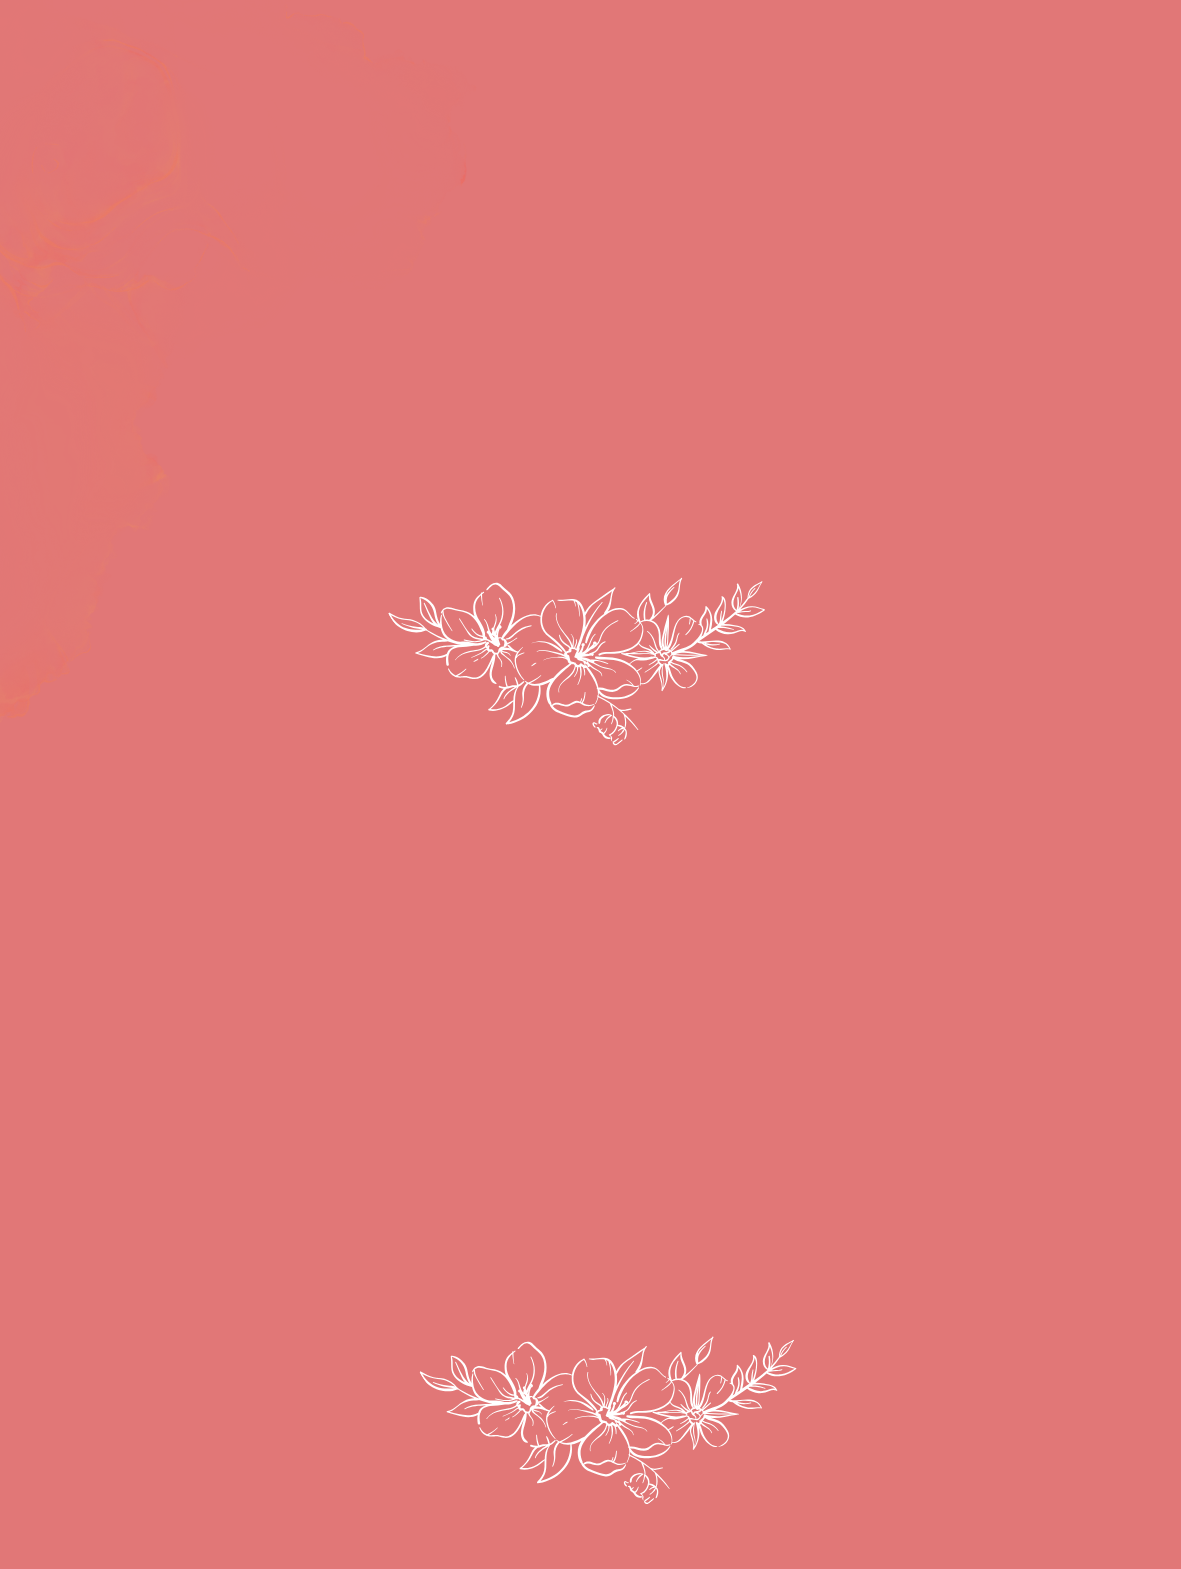
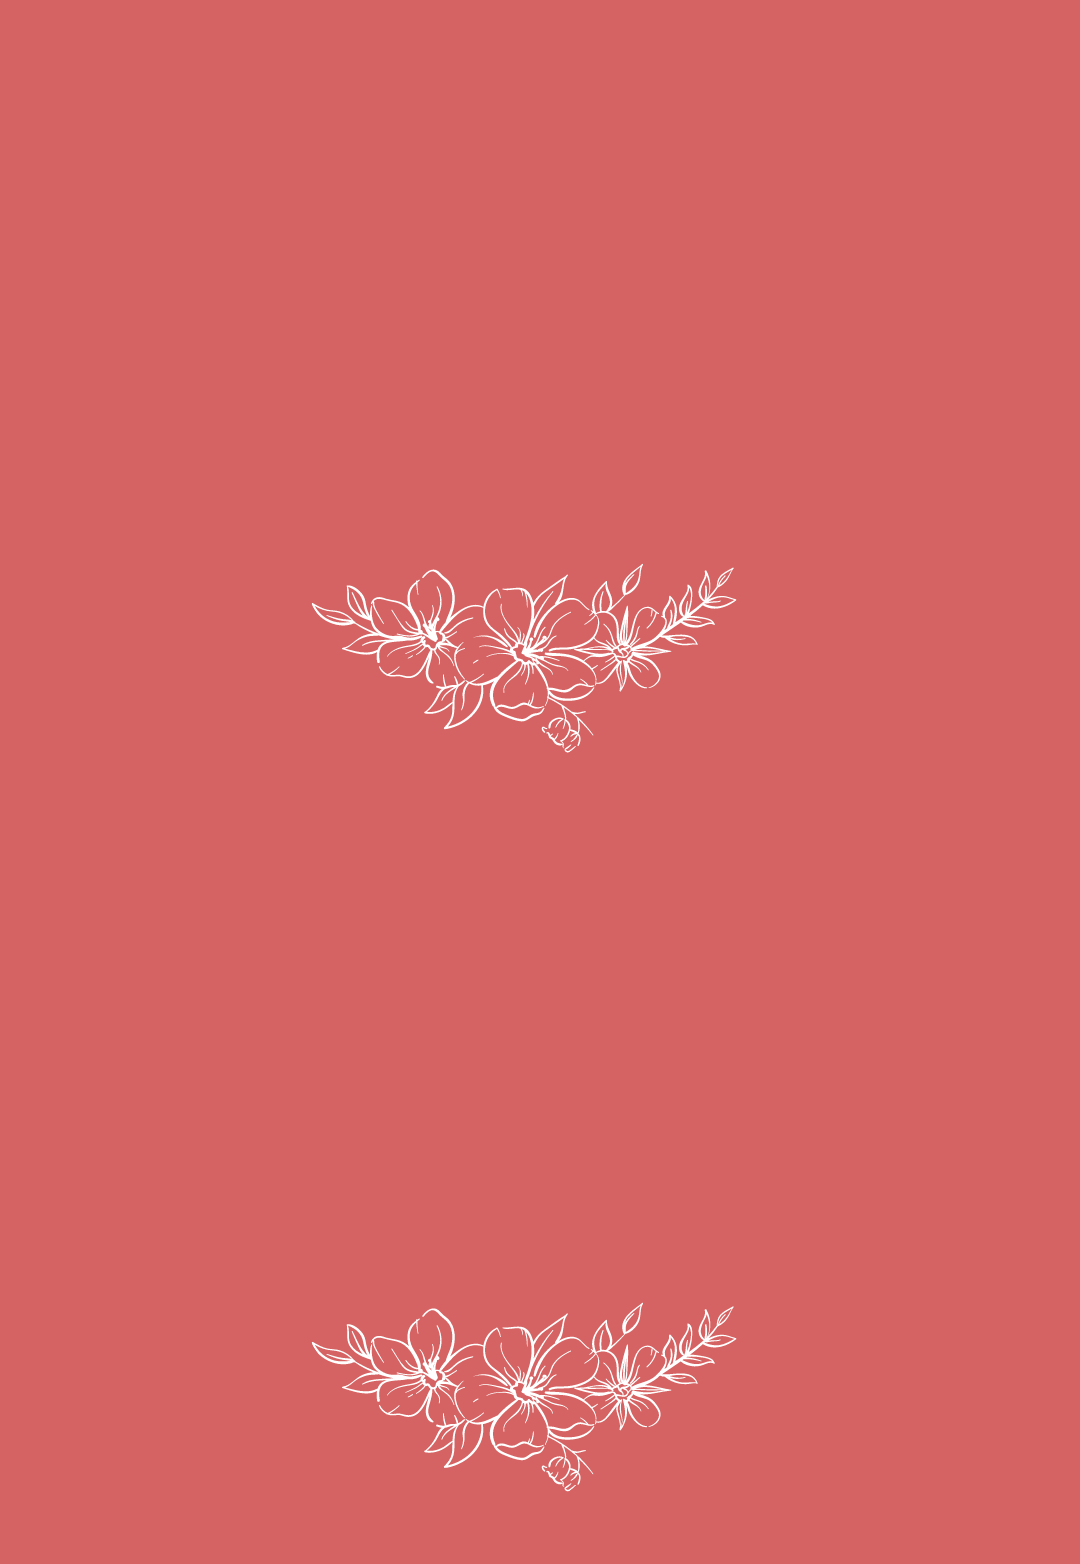
cambio de imagenes de fondo

Changed region(s): [[0.3056, 0.8286, 0.6722, 0.9514], [0.3056, 0.3683, 0.6722, 0.491]]

diff --git a/index.html b/index.html
@@ -74,7 +74,7 @@
 
 
 <div class="contenedor">
-  <img class="img-audio" src="./assets/FONDO1.png" alt="Imagen de Fondo">
+  <img class="img-audio" src="./assets/FONDO4.png" alt="Imagen de Fondo">
   <div class="card-img-overlay">
     <hr>
     <h2 class="textAudio">Si no sabes qué regalarme...</h2>
@@ -90,8 +90,12 @@
          Nommbre: Salina Rocio Denise <br> 
          </h4>
         <br>
-           
+
+      </div>
+        <div class="contenedor"> 
 <hr>
+<img class="img-audio" src="./assets/FONDO5.png" alt="Imagen de Fondo">
+<div class="card-img-overlay">
         <h2  class="textConfirm">Confirmá tu asistencia!</h2>
         <hr>
         <div class="textConfirm"> <a  href="https://wa.me/+5493813559794" target="_blank">
@@ -101,6 +105,7 @@
   <p class="textConfirm"> Tenes tiempo hasta el 05/01</p>
    
 </div>
+</div>  
 </div>
 <div>
   <img class="img-audio" src="./assets/FONDOEND.png" alt="Imagen de Fondo">
